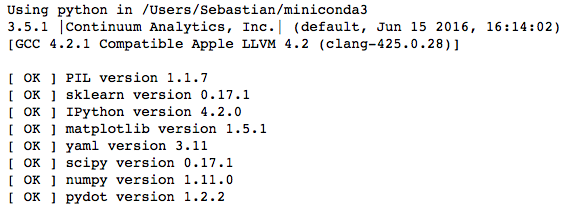
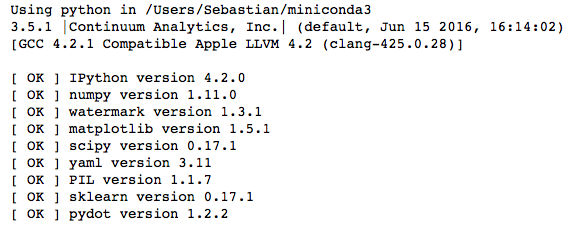
add watermark dependency

Changed region(s): [[0.0, 0.307, 0.4806, 0.9767], [0.0, 0.0, 0.9912, 0.2512]]

diff --git a/README.md b/README.md
@@ -49,7 +49,7 @@ If you don’t have a GitHub account, you may have to re-download the .zip archi
 Installation Notes
 ------------------
 
-This tutorial will require recent installations of 
+This tutorial will require recent installations of
 
 - [NumPy](http://www.numpy.org)
 - [SciPy](http://www.scipy.org)
@@ -59,6 +59,7 @@ This tutorial will require recent installations of
 - [PyYaml](http://pyyaml.org/wiki/PyYAML)
 - [IPython](http://ipython.readthedocs.org/en/stable/)
 - [Jupyter Notebook](http://jupyter.org)
+- [Watermark](https://pypi.python.org/pypi/watermark)
 
 The last one is important, you should be able to type:
 
